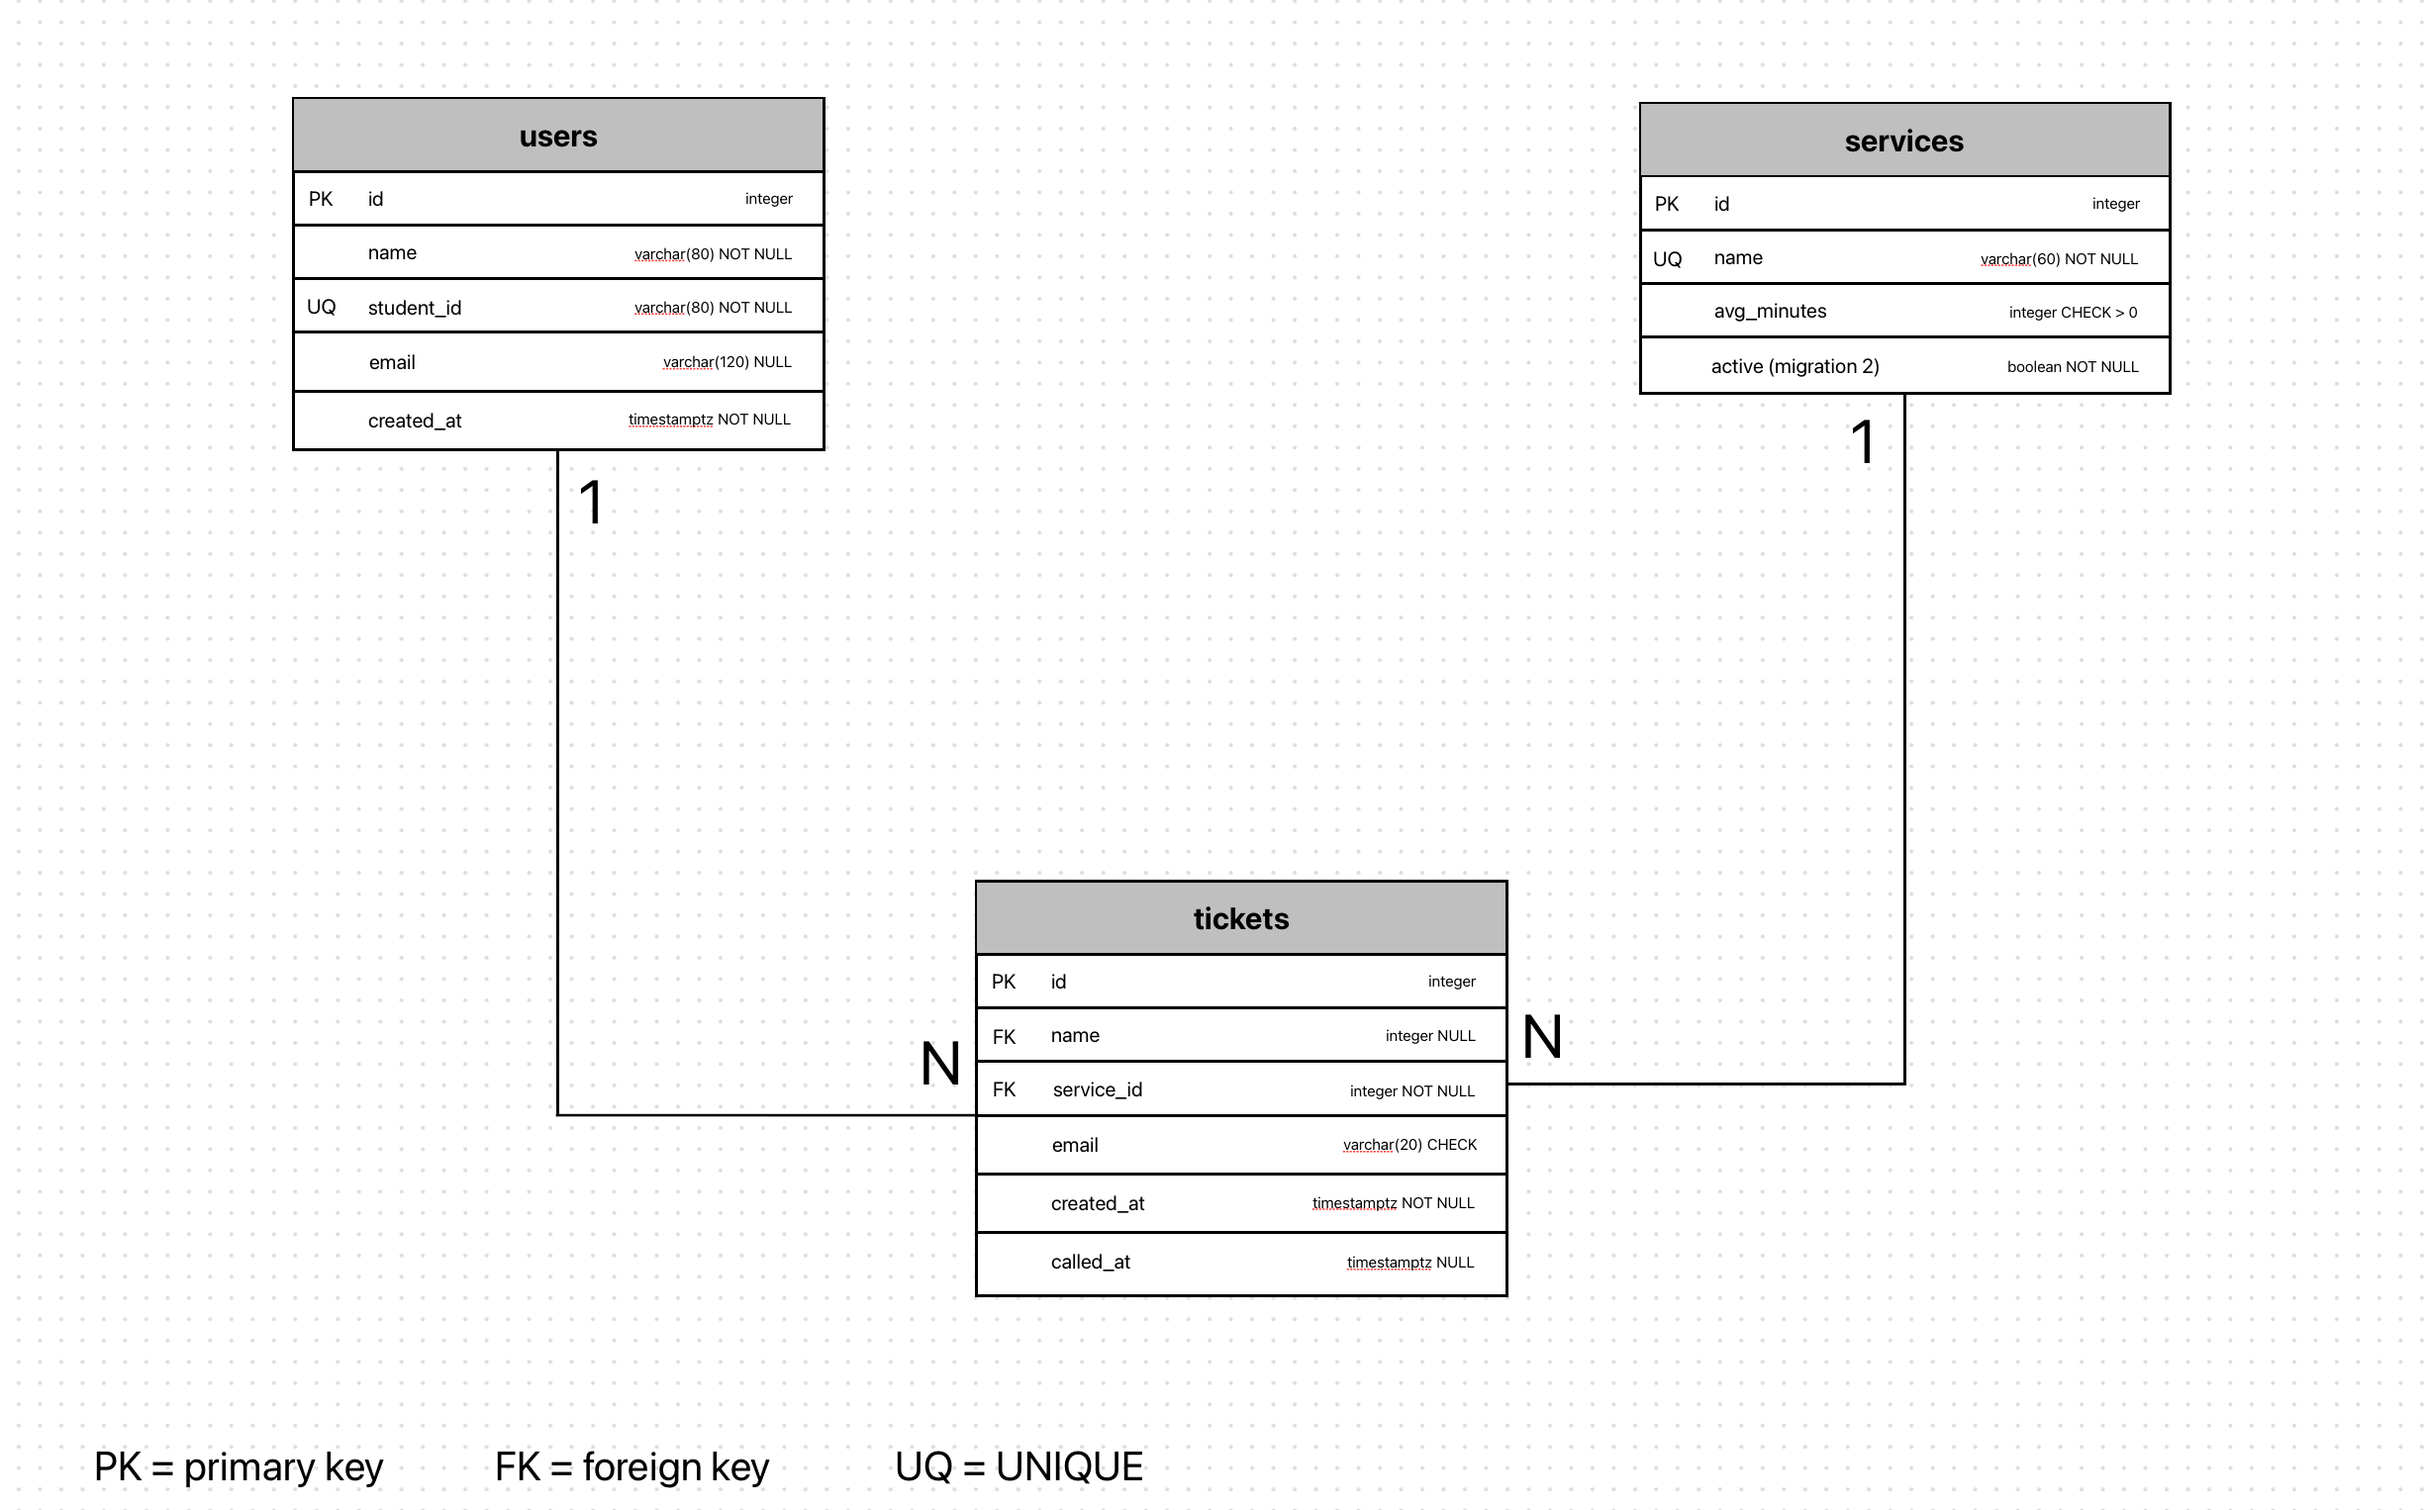
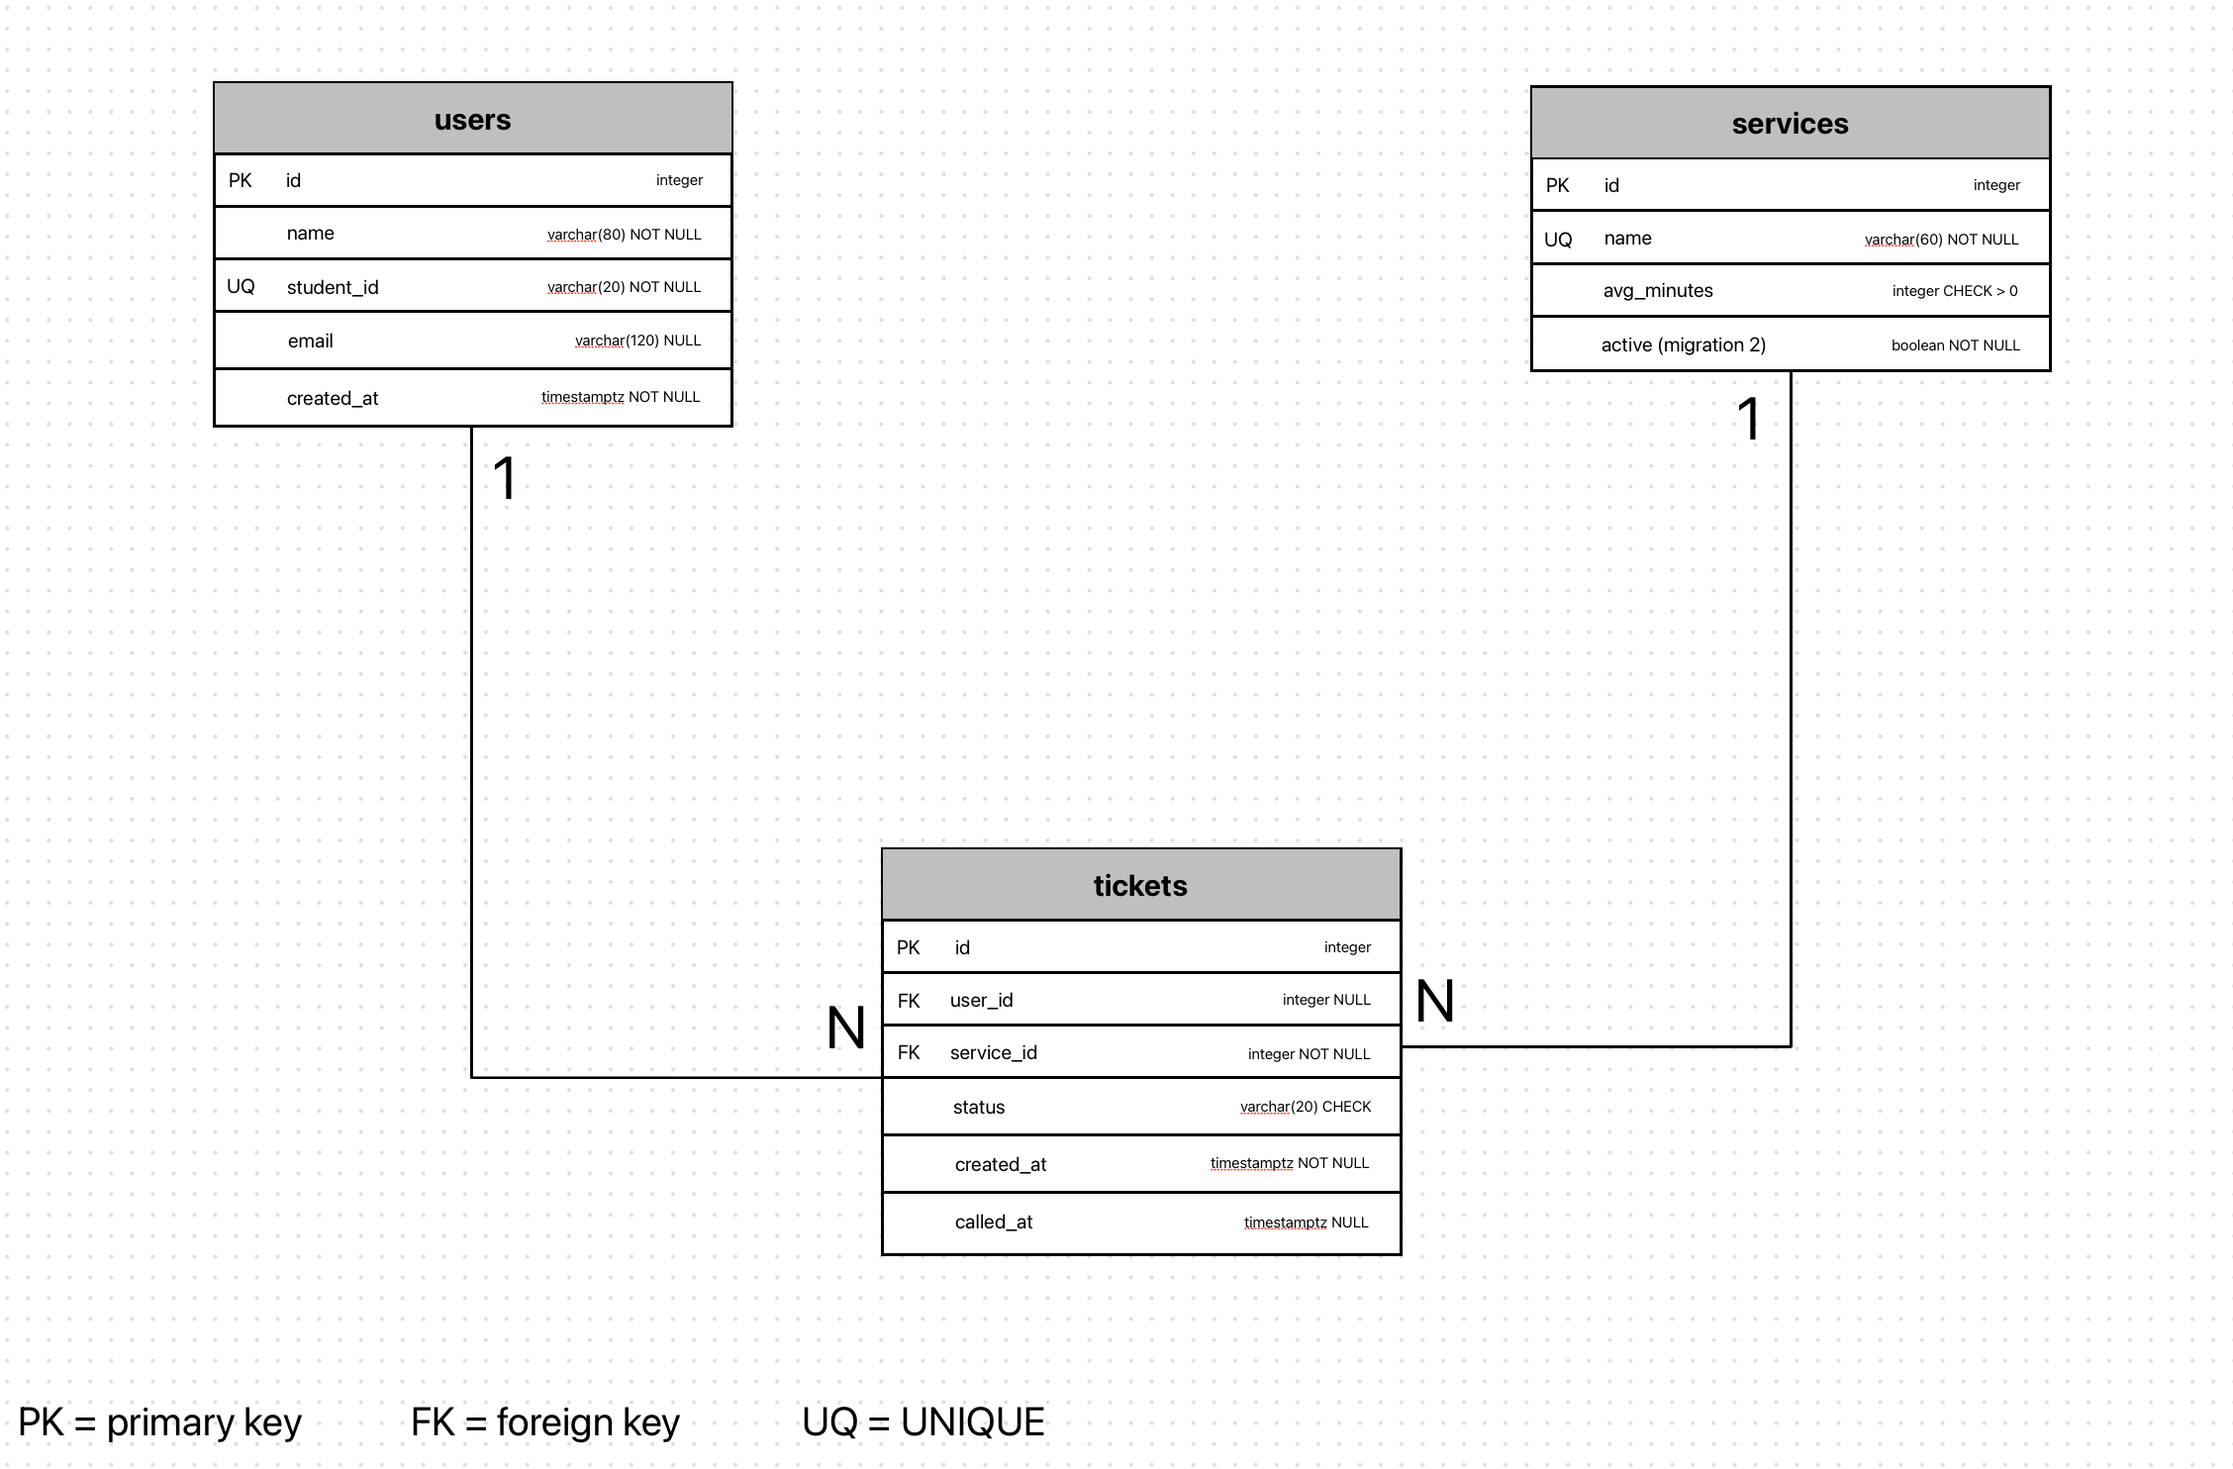
Update erd.png (#4)

diff --git a/docs/week4/schema-review.md b/docs/week4/schema-review.md
@@ -1,4 +1,4 @@
-# Schema self-review (DRAFT: put the ERD away for an hour, then reread this and change it to match what you really think)
+# Schema self-review
 
 My starting point was ClinicQ's three tables. These are the problems I found when I reviewed them for Qeazy.
 
@@ -6,35 +6,46 @@ My starting point was ClinicQ's three tables. These are the problems I found whe
 
 **Works well:** `student_id` is NOT NULL and UNIQUE, so a returning student is recognized and cannot have two accounts, and `created_at` gives me a date for the 30-day deletion rule.
 
-
 **Problem:** ClinicQ makes `email` NOT NULL UNIQUE and treats it as the identity. In Qeazy the email is optional (FR-13), so students without one could not join, and two students with no email would break UNIQUE.
-
 
 **Change:** `student_id` is now the unique identity, and `email` is a nullable column with no UNIQUE.
 
 ## Deleting people without losing history
 
-**Works well:** Tickets stay linked to the person only through `user_id`, so the data about waits and statuses is separate from personal details.\
+**Works well:** Tickets stay linked to the person only through `user_id`, so the data about waits and statuses is separate from personal details.
+
 **Problem:** ClinicQ's rule blocks deleting a user who has tickets (RESTRICT). That conflicts with my NFR-03, which says personal records must be deleted within 30 days, and with the staff's need for old tickets in reports.
 
-
 **Change:** `tickets.user_id` is nullable with ON DELETE SET NULL, so removing a person keeps the ticket for reports. The `services` foreign key stays RESTRICT, because deleting a service must not erase its tickets.
+
+## Two kinds of delete for tickets
+
+**Works well:** The schema already has what a soft delete needs: a `status` column that can say a ticket is finished without removing the row.
+
+**Problem:** A ticket can disappear for two different reasons. A student who leaves the queue is real history that the staff need for reports. A test ticket or one created by mistake is not history, and keeping it would make the counts wrong.
+
+**Change:** Leaving the queue is a soft delete: the status becomes `left` and the row stays in `tickets`. Staff can also hard delete a mistaken ticket from the dashboard, after a confirmation. Both are POST routes. The hard delete does not touch `users`, because the foreign key points from the ticket to the person and not the other way around.
+
+## Switching a service off
+
+**Works well:** `tickets.service_id` is RESTRICT, so a service with tickets can never be deleted by accident and old tickets always have a service to point to.
+
+**Problem:** The same rule means staff had no way to stop offering a concern for a semester. They could not delete it, and leaving it in the list let students join a queue nobody was serving. FR-11 also asks for staff to be able to switch a concern off.
+
+**Change:** I added `services.active`, a boolean NOT NULL DEFAULT true, in a second migration. It has a `server_default` because the table already had rows, and PostgreSQL needs a value to put in them. The join form shows only active services, and `join` rejects an inactive one the same way as one that does not exist. The dashboard and Manage services still list all services, so old tickets keep their concern name. A service with no tickets can still be deleted. One with tickets is refused with a message telling staff to switch it off instead.
 
 ## Position in line
 
 **Works well:** There is no `position` column, the number of people ahead is computed from the tickets.
 
-
 **Problem:** If I order the queue only by `created_at`, two students who join in the same instant could tie, and each would be counted ahead of the other.
 
-
-**Change:** I will count people ahead by the ticket `id`, which is unique and always in join order. `created_at` stays for showing the time joined and for reports.
+**Change:** I will count people ahead by the ticket `id`, which is unique and always in join order. `created_at` stays for showing the time joined and for reports. "Call next" picks the oldest waiting ticket by `created_at`, with `id` as the tiebreaker.
 
 ## Statuses and what is left out
 
-**Works well:** A CHECK constraint limits `status` to five known values, so a typo can never reach the table.
-
+**Works well:** A CHECK constraint limits `status` to five known values, so a typo can never reach the table. Calling a ticket also sets `called_at`, so the time it was called is stored as a fact and not worked out later.
 
 **Problem:** In Week 3, leaving the queue set the status to `no-show`, which mixes "left on their own" with "did not come when called", and the daily report (FR-06) needs them apart.
 
-**Change:** I added a separate `left` status. I did not add a `role` column or a staff table; they come with login in Week 11.
+**Change:** I added a separate `left` status, and leaving the queue now sets it (see the soft delete above). I did not add a `role` column or a staff table; they come with login in Week 11. Until then the staff pages, including Manage services, are open to everyone, and a GitHub issue tracks that.
